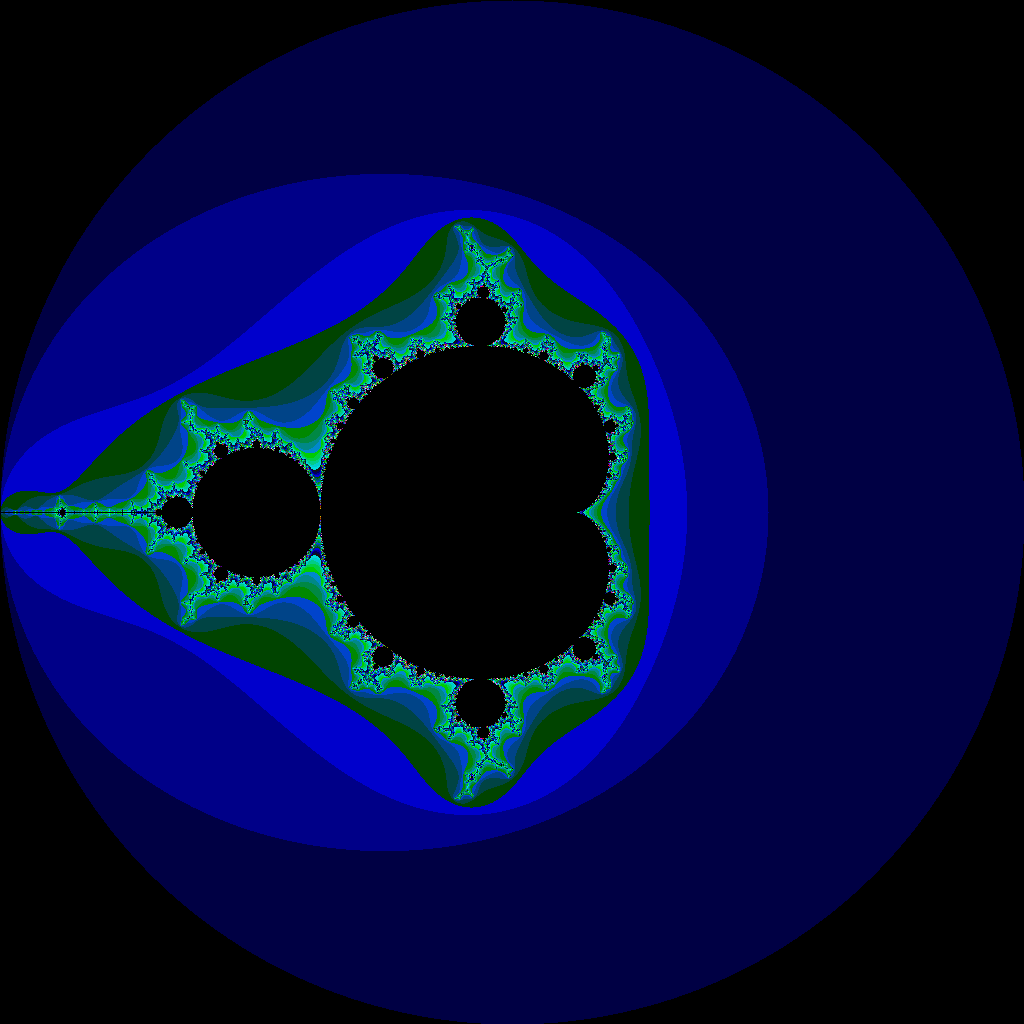
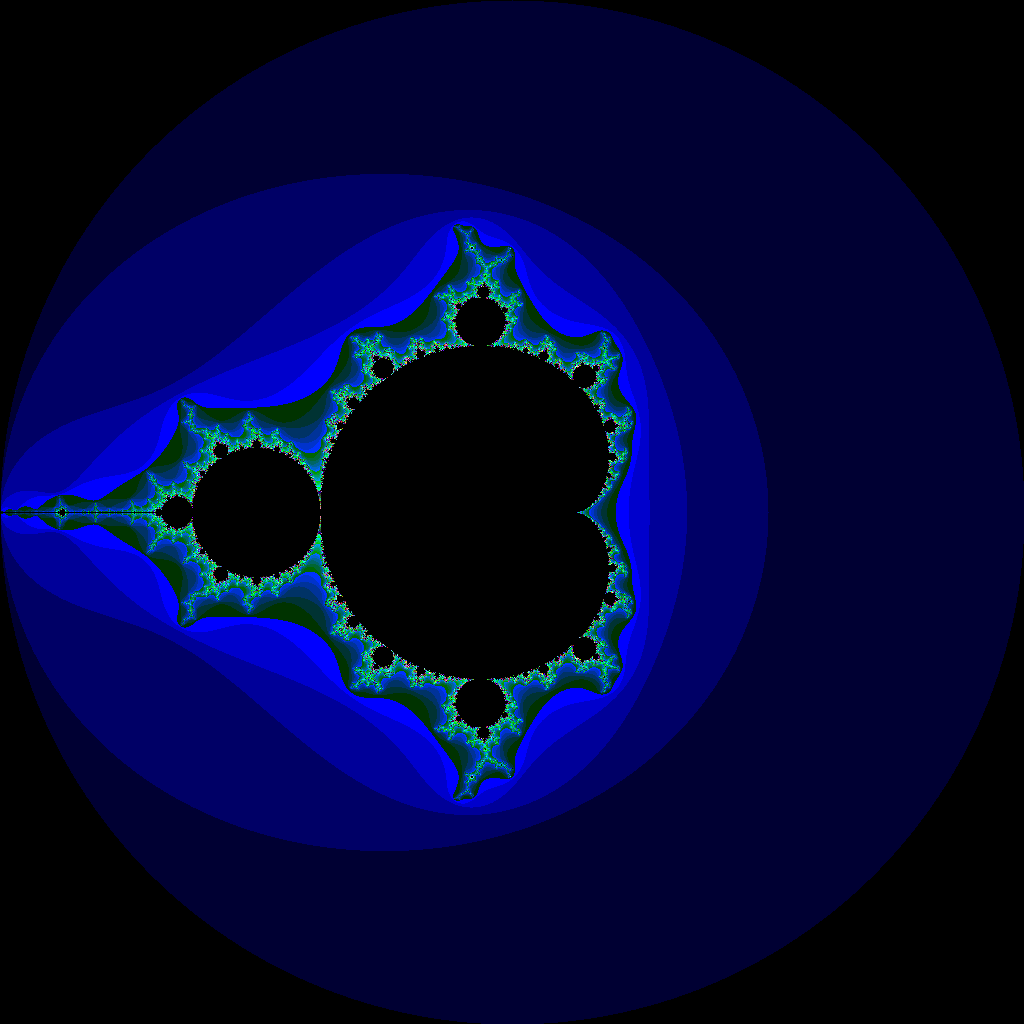
exercise 3.6

Changed region(s): [[0.0, 0.1562, 0.75, 0.8438]]

diff --git a/ch03/ex03_06/main.go b/ch03/ex03_06/main.go
@@ -25,7 +25,37 @@ func main() {
 			img.Set(px, py, mandelbrot(z))
 		}
 	}
+	supersample(img)
 	png.Encode(os.Stdout, img) // NOTE: Ignoring errors
+}
+
+func supersample(orig *image.RGBA) {
+	const subpixels = 2 // 2 in both dimensions: 4 subpixels
+	w, h := orig.Bounds().Dx(), orig.Bounds().Dy()
+	wc, hc := w*subpixels, h*subpixels
+	copy := image.NewRGBA(image.Rect(0, 0, wc, hc))
+	for xc := 0; xc < wc; xc++ {
+		for yc := 0; yc < hc; yc++ {
+			copy.Set(xc, yc, orig.At(xc/subpixels, yc/subpixels))
+		}
+	}
+	for x := 0; x < w; x++ {
+		for y := 0; y < h; y++ {
+			var rs, gs, bs byte
+			for xc := x * subpixels; xc < x*subpixels+subpixels; xc++ {
+				for yc := y * subpixels; yc < y*subpixels+subpixels; yc++ {
+					r, g, b, _ := copy.At(xc, yc).RGBA()
+					rs += byte(r)
+					gs += byte(g)
+					bs += byte(b)
+				}
+			}
+			rs /= subpixels * subpixels
+			gs /= subpixels * subpixels
+			bs /= subpixels * subpixels
+			orig.Set(x, y, color.RGBA{R: rs, G: gs, B: bs, A: 0xff})
+		}
+	}
 }
 
 func mandelbrot(z complex128) color.Color {
